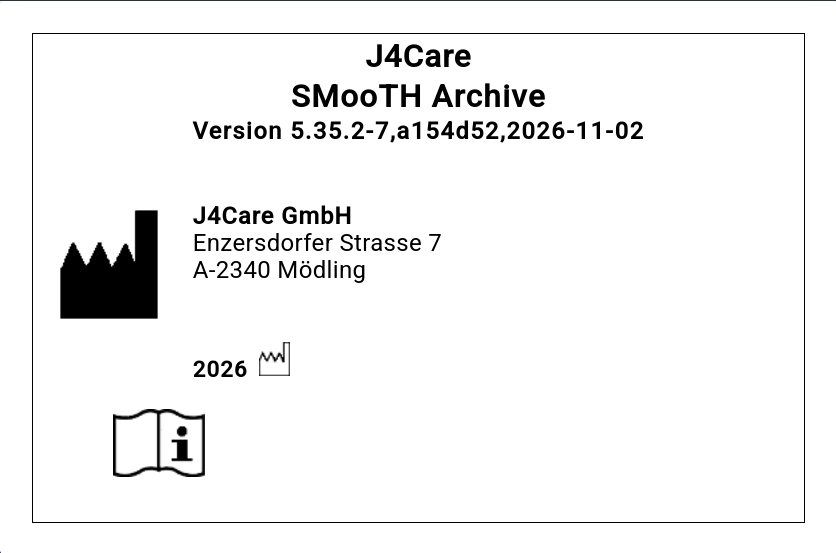
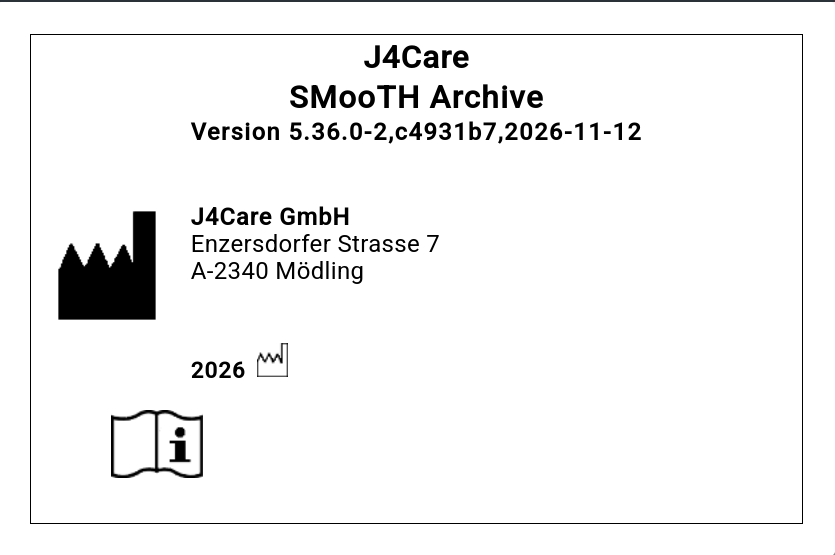
release 5.36.0-2

diff --git a/docs/conf.py b/docs/conf.py
@@ -21,8 +21,8 @@ import shlex
 project = u'Smooth Archive - HL7 Conformance Statement'
 copyright = u'2026, J4Care GmbH'
 author = u'J4Care GMbH'
-version = u'5.35.2'
-release = u'5.35.2-7'
+version = u'5.36.0'
+release = u'5.36.0-2'
 
 
 # If extensions (or modules to document with autodoc) are in another directory,

diff --git a/docs/iso-preamble.rst b/docs/iso-preamble.rst
@@ -61,6 +61,11 @@ Revision Record for Document AEN-00039-0516.10
      - Date
      - Author
      - Reviewer
+   * - 94
+     - `Release Notes 5.36.0 <https://docs.j4care.com/archive/releases/pro-release-5-36-0>`_
+     - **12.11.2026**
+     - P. Kalina
+     - J.Friedrichkeit
    * - 93
      - `Release Notes 5.35.2 <https://docs.j4care.com/archive/releases/pro-release-5-35-2>`_
      - **02.11.2026**
